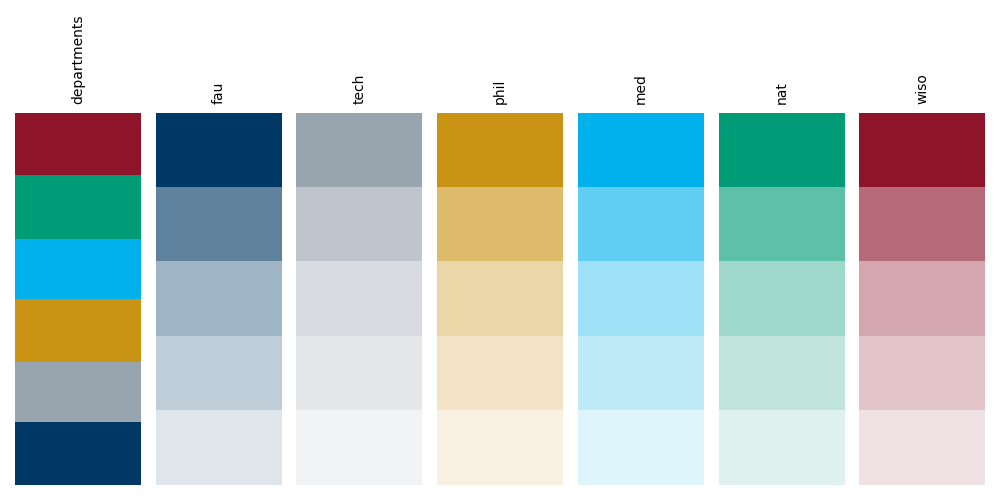
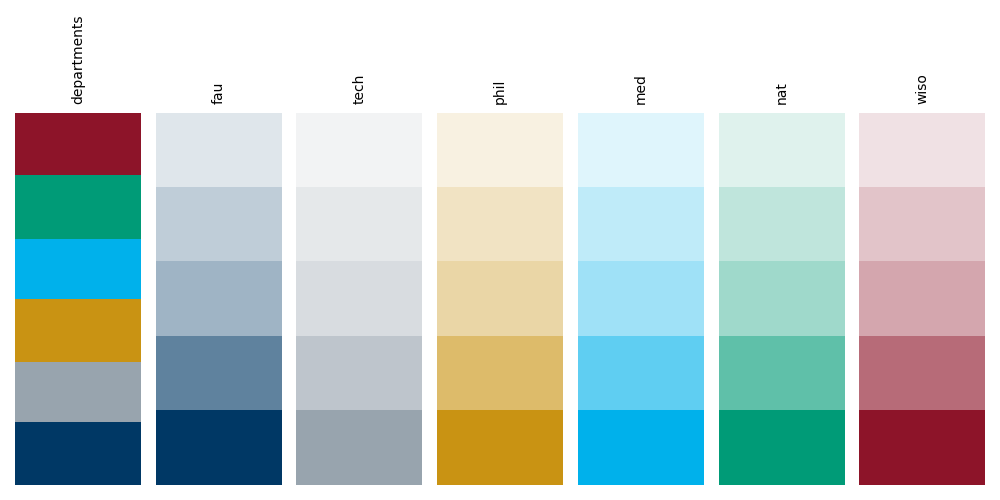
Inverted 2019 colormaps to match 2021 style

diff --git a/fau_colors/v2019.py b/fau_colors/v2019.py
@@ -25,7 +25,7 @@ colors = _DepartmentColors(
 cmaps = _CmapsAll(
     departments=sns.color_palette(list(colors)),
     **{
-        k: sns.color_palette(custom_blend_colormap(["#FFFFFF", v], _LIGHTNESS_LEVELS), as_cmap=True)
+        k: sns.color_palette(custom_blend_colormap(["#FFFFFF", v], list(reversed(_LIGHTNESS_LEVELS))), as_cmap=True)
         for k, v in colors._asdict().items()
     },
 )

diff --git a/fau_colors/__init__.py b/fau_colors/__init__.py
@@ -1,1 +1,1 @@
-__version__ = "0.2.1"
+__version__ = "0.3.0"
